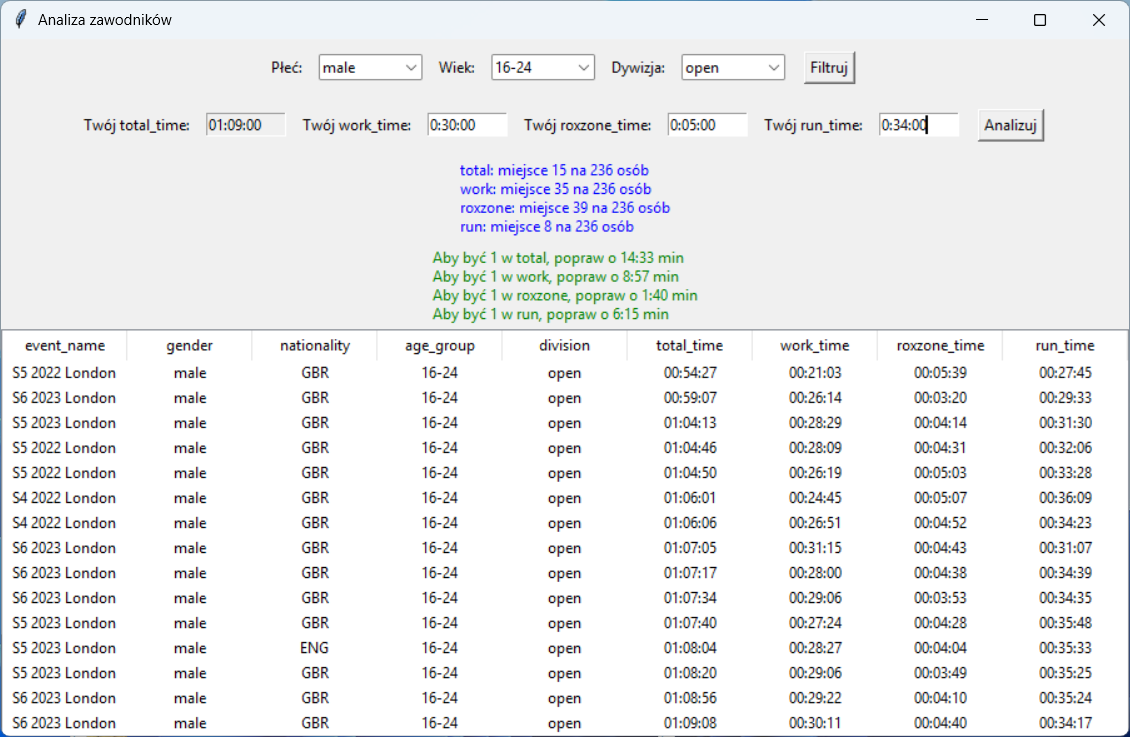
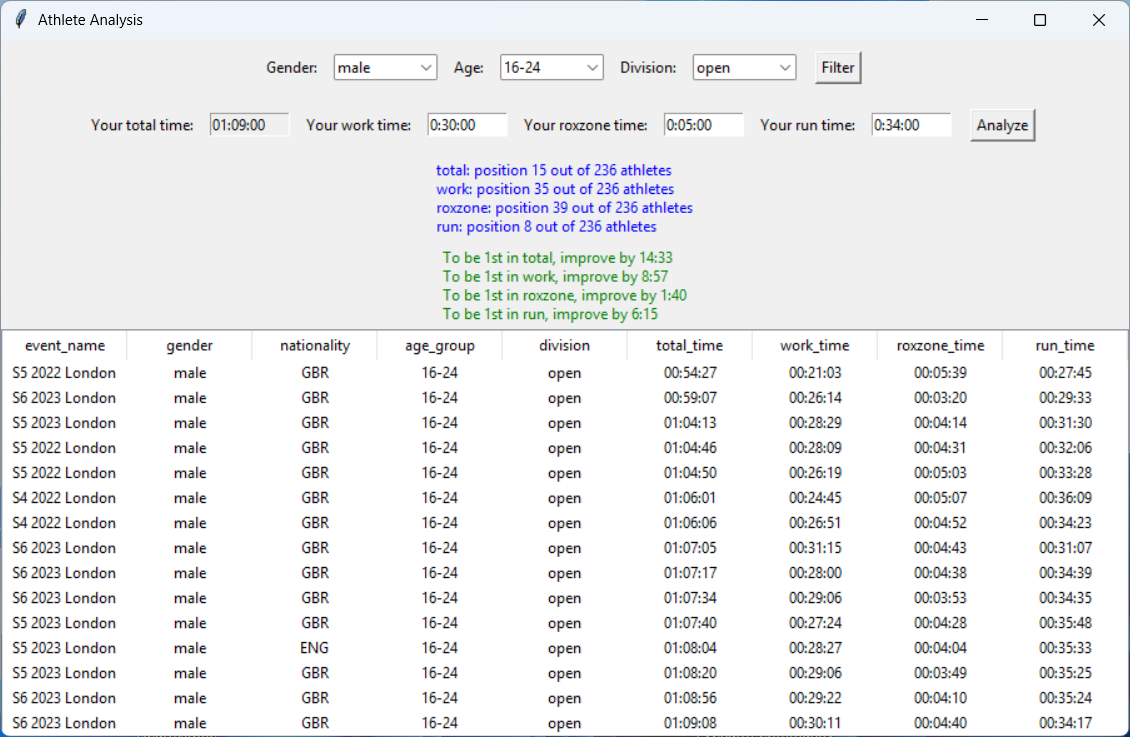
update UI language to English

diff --git a/hyrox_app.py b/hyrox_app.py
@@ -2,32 +2,37 @@ import pandas as pd
 import tkinter as tk
 from tkinter import ttk
 
-# --- Wczytanie danych zawodników ---
+# Load data
 df = pd.read_csv(r"C:\Users\goust\PycharmProjects\Hyrox_Project\data\london_2021_2023.csv")
 
-# Konwersja czasów do HH:MM:SS
+# Convert time columns to HH:MM:SS
 for col in ["total_time", "work_time", "roxzone_time", "run_time"]:
     df[col] = df[col].apply(lambda x: str(pd.to_timedelta(x)).split()[-1])
 
 
-# --- Funkcje ---
+# Functions
 def filter_data():
     gender = gender_var.get()
     age_group = age_var.get()
     division = division_var.get()
 
     filtered = df.copy()
-    if gender != "wszystkie":
+
+    if gender != "all":
         filtered = filtered[filtered["gender"].str.lower() == gender.lower()]
-    if age_group != "wszystkie":
+
+    if age_group != "all":
         filtered = filtered[filtered["age_group"] == age_group]
-    if division != "wszystkie":
+
+    if division != "all":
         filtered = filtered[filtered["division"].str.lower() == division.lower()]
 
     filtered = filtered.drop_duplicates()
 
     filtered["total_seconds"] = filtered["total_time"].apply(
-        lambda t: sum(int(x) * 60 ** i for i, x in enumerate(reversed(t.split(":")))))
+        lambda t: sum(int(x) * 60 ** i for i, x in enumerate(reversed(t.split(":"))))
+    )
+
     filtered = filtered.sort_values("total_seconds")
     filtered = filtered.drop(columns=["total_seconds"])
 
@@ -37,6 +42,7 @@ def filter_data():
 def display_data(filtered):
     for i in tree.get_children():
         tree.delete(i)
+
     for i, row in filtered.iterrows():
         tree.insert("", "end", values=[row[col] for col in columns])
 
@@ -46,6 +52,7 @@ def update_total(*args):
         work = pd.to_timedelta(work_entry.get())
         rox = pd.to_timedelta(rox_entry.get())
         run = pd.to_timedelta(run_entry.get())
+
         total_var.set(f"{(work + rox + run)}".split()[-1])
     except:
         total_var.set("")
@@ -53,52 +60,69 @@ def update_total(*args):
 
 def analyze_my_result():
     update_total()
+
     gender = gender_var.get()
     age_group = age_var.get()
     division = division_var.get()
 
     filtered = df.copy()
-    if gender != "wszystkie":
+
+    if gender != "all":
         filtered = filtered[filtered["gender"].str.lower() == gender.lower()]
-    if age_group != "wszystkie":
+
+    if age_group != "all":
         filtered = filtered[filtered["age_group"] == age_group]
-    if division != "wszystkie":
+
+    if division != "all":
         filtered = filtered[filtered["division"].str.lower() == division.lower()]
 
     filtered = filtered.drop_duplicates()
 
     time_cols = ["total_time", "work_time", "roxzone_time", "run_time"]
+
     for col in time_cols:
         filtered[f"{col}_seconds"] = filtered[col].apply(
-            lambda t: sum(int(x) * 60 ** i for i, x in enumerate(reversed(t.split(":")))))
+            lambda t: sum(int(x) * 60 ** i for i, x in enumerate(reversed(t.split(":"))))
+        )
 
     try:
-        my_times = {col: pd.to_timedelta(entry.get()).total_seconds() for col, entry in
-                    zip(time_cols[1:], [work_entry, rox_entry, run_entry])}
+        my_times = {
+            col: pd.to_timedelta(entry.get()).total_seconds()
+            for col, entry in zip(time_cols[1:], [work_entry, rox_entry, run_entry])
+        }
+
         my_times["total_time"] = pd.to_timedelta(total_var.get()).total_seconds()
+
     except:
-        analysis_label.config(text="Niepoprawny format czasu")
+        analysis_label.config(text="Invalid time format")
         improvement_label.config(text="")
         return
 
-    # --- Analiza pozycji ---
+    # Analysis
     analysis_text = ""
     improvement_text = ""
+
     for col in time_cols:
         all_seconds = filtered[f"{col}_seconds"].tolist() + [my_times[col]]
         all_seconds_sorted = sorted(all_seconds)
+
         place = all_seconds_sorted.index(my_times[col]) + 1
         total_athletes = len(all_seconds_sorted)
-        analysis_text += f"{entry_label(col)}: miejsce {place} na {total_athletes} osób\n"
+
+        analysis_text += f"{entry_label(col)}: position {place} out of {total_athletes} athletes\n"
 
         best = min(all_seconds_sorted)
         diff_sec = my_times[col] - best
+
         if diff_sec > 0:
             diff_min = int(diff_sec // 60)
             diff_sec_rem = int(diff_sec % 60)
-            improvement_text += f"Aby być 1 w {entry_label(col)}, popraw o {diff_min}:{diff_sec_rem:02d} min\n"
+
+            improvement_text += (
+                f"To be 1st in {entry_label(col)}, improve by {diff_min}:{diff_sec_rem:02d}\n"
+            )
         else:
-            improvement_text += f"Jesteś najlepszy w {entry_label(col)}!\n"
+            improvement_text += f"You are the best in {entry_label(col)}!\n"
 
     analysis_label.config(text=analysis_text.strip())
     improvement_label.config(text=improvement_text.strip())
@@ -114,80 +138,106 @@ def entry_label(col):
     return labels.get(col, col)
 
 
-# --- GUI ---
+# GUI
 root = tk.Tk()
-root.title("Analiza zawodników")
+root.title("Athlete Analysis")
 
-# Filtry
+# Filters
 filter_frame = tk.Frame(root)
 filter_frame.pack(pady=10)
 
-gender_var = tk.StringVar(value="wszystkie")
-tk.Label(filter_frame, text="Płeć:").grid(row=0, column=0, padx=5)
-gender_dropdown = ttk.Combobox(filter_frame, textvariable=gender_var, values=["wszystkie", "male", "female"],
-                               state="readonly", width=10)
+gender_var = tk.StringVar(value="all")
+tk.Label(filter_frame, text="Gender:").grid(row=0, column=0, padx=5)
+
+gender_dropdown = ttk.Combobox(
+    filter_frame,
+    textvariable=gender_var,
+    values=["all", "male", "female"],
+    state="readonly",
+    width=10
+)
 gender_dropdown.grid(row=0, column=1, padx=5)
 
-age_var = tk.StringVar(value="wszystkie")
-age_options = ["wszystkie"] + sorted(df["age_group"].unique())
-tk.Label(filter_frame, text="Wiek:").grid(row=0, column=2, padx=5)
-age_dropdown = ttk.Combobox(filter_frame, textvariable=age_var, values=age_options, state="readonly", width=10)
+age_var = tk.StringVar(value="all")
+tk.Label(filter_frame, text="Age:").grid(row=0, column=2, padx=5)
+
+age_options = ["all"] + sorted(df["age_group"].unique())
+age_dropdown = ttk.Combobox(
+    filter_frame,
+    textvariable=age_var,
+    values=age_options,
+    state="readonly",
+    width=10
+)
 age_dropdown.grid(row=0, column=3, padx=5)
 
-division_var = tk.StringVar(value="wszystkie")
-tk.Label(filter_frame, text="Dywizja:").grid(row=0, column=4, padx=5)
-division_dropdown = ttk.Combobox(filter_frame, textvariable=division_var, values=["wszystkie", "open", "pro"],
-                                 state="readonly", width=10)
+division_var = tk.StringVar(value="all")
+tk.Label(filter_frame, text="Division:").grid(row=0, column=4, padx=5)
+
+division_dropdown = ttk.Combobox(
+    filter_frame,
+    textvariable=division_var,
+    values=["all", "open", "pro"],
+    state="readonly",
+    width=10
+)
 division_dropdown.grid(row=0, column=5, padx=5)
 
-filter_button = tk.Button(filter_frame, text="Filtruj", command=filter_data)
+filter_button = tk.Button(filter_frame, text="Filter", command=filter_data)
 filter_button.grid(row=0, column=6, padx=10)
 
-# Własny wynik
+# Input section
 input_frame = tk.Frame(root)
 input_frame.pack(pady=10)
 
 total_var = tk.StringVar()
-tk.Label(input_frame, text="Twój total_time:").grid(row=0, column=0, padx=5)
+tk.Label(input_frame, text="Your total time:").grid(row=0, column=0, padx=5)
+
 total_entry = tk.Entry(input_frame, textvariable=total_var, width=10, state="readonly")
 total_entry.grid(row=0, column=1, padx=5)
 
-tk.Label(input_frame, text="Twój work_time:").grid(row=0, column=2, padx=5)
+tk.Label(input_frame, text="Your work time:").grid(row=0, column=2, padx=5)
 work_entry = tk.Entry(input_frame, width=10)
 work_entry.grid(row=0, column=3, padx=5)
 work_entry.insert(0, "0:30:00")
 work_entry.bind("<KeyRelease>", update_total)
 
-tk.Label(input_frame, text="Twój roxzone_time:").grid(row=0, column=4, padx=5)
+tk.Label(input_frame, text="Your roxzone time:").grid(row=0, column=4, padx=5)
 rox_entry = tk.Entry(input_frame, width=10)
 rox_entry.grid(row=0, column=5, padx=5)
 rox_entry.insert(0, "0:05:00")
 rox_entry.bind("<KeyRelease>", update_total)
 
-tk.Label(input_frame, text="Twój run_time:").grid(row=0, column=6, padx=5)
+tk.Label(input_frame, text="Your run time:").grid(row=0, column=6, padx=5)
 run_entry = tk.Entry(input_frame, width=10)
 run_entry.grid(row=0, column=7, padx=5)
 run_entry.insert(0, "0:34:00")
 run_entry.bind("<KeyRelease>", update_total)
 
-analyze_button = tk.Button(input_frame, text="Analizuj", command=analyze_my_result)
+analyze_button = tk.Button(input_frame, text="Analyze", command=analyze_my_result)
 analyze_button.grid(row=0, column=8, padx=10)
 
-# Etykiety analizy
+# Labels
 analysis_label = tk.Label(root, text="", fg="blue", justify="left")
 analysis_label.pack(pady=2)
+
 improvement_label = tk.Label(root, text="", fg="green", justify="left")
 improvement_label.pack(pady=2)
 
-update_total()  # obliczenie total_time przy starcie
+update_total()
 
-# Tabela
-columns = ["event_name", "gender", "nationality", "age_group", "division", "total_time", "work_time", "roxzone_time",
-           "run_time"]
+# Table
+columns = [
+    "event_name", "gender", "nationality", "age_group", "division",
+    "total_time", "work_time", "roxzone_time", "run_time"
+]
+
 tree = ttk.Treeview(root, columns=columns, show="headings", height=15)
+
 for col in columns:
     tree.heading(col, text=col)
     tree.column(col, width=100, anchor="center")
+
 tree.pack(fill=tk.BOTH, expand=True)
 
 root.mainloop()
